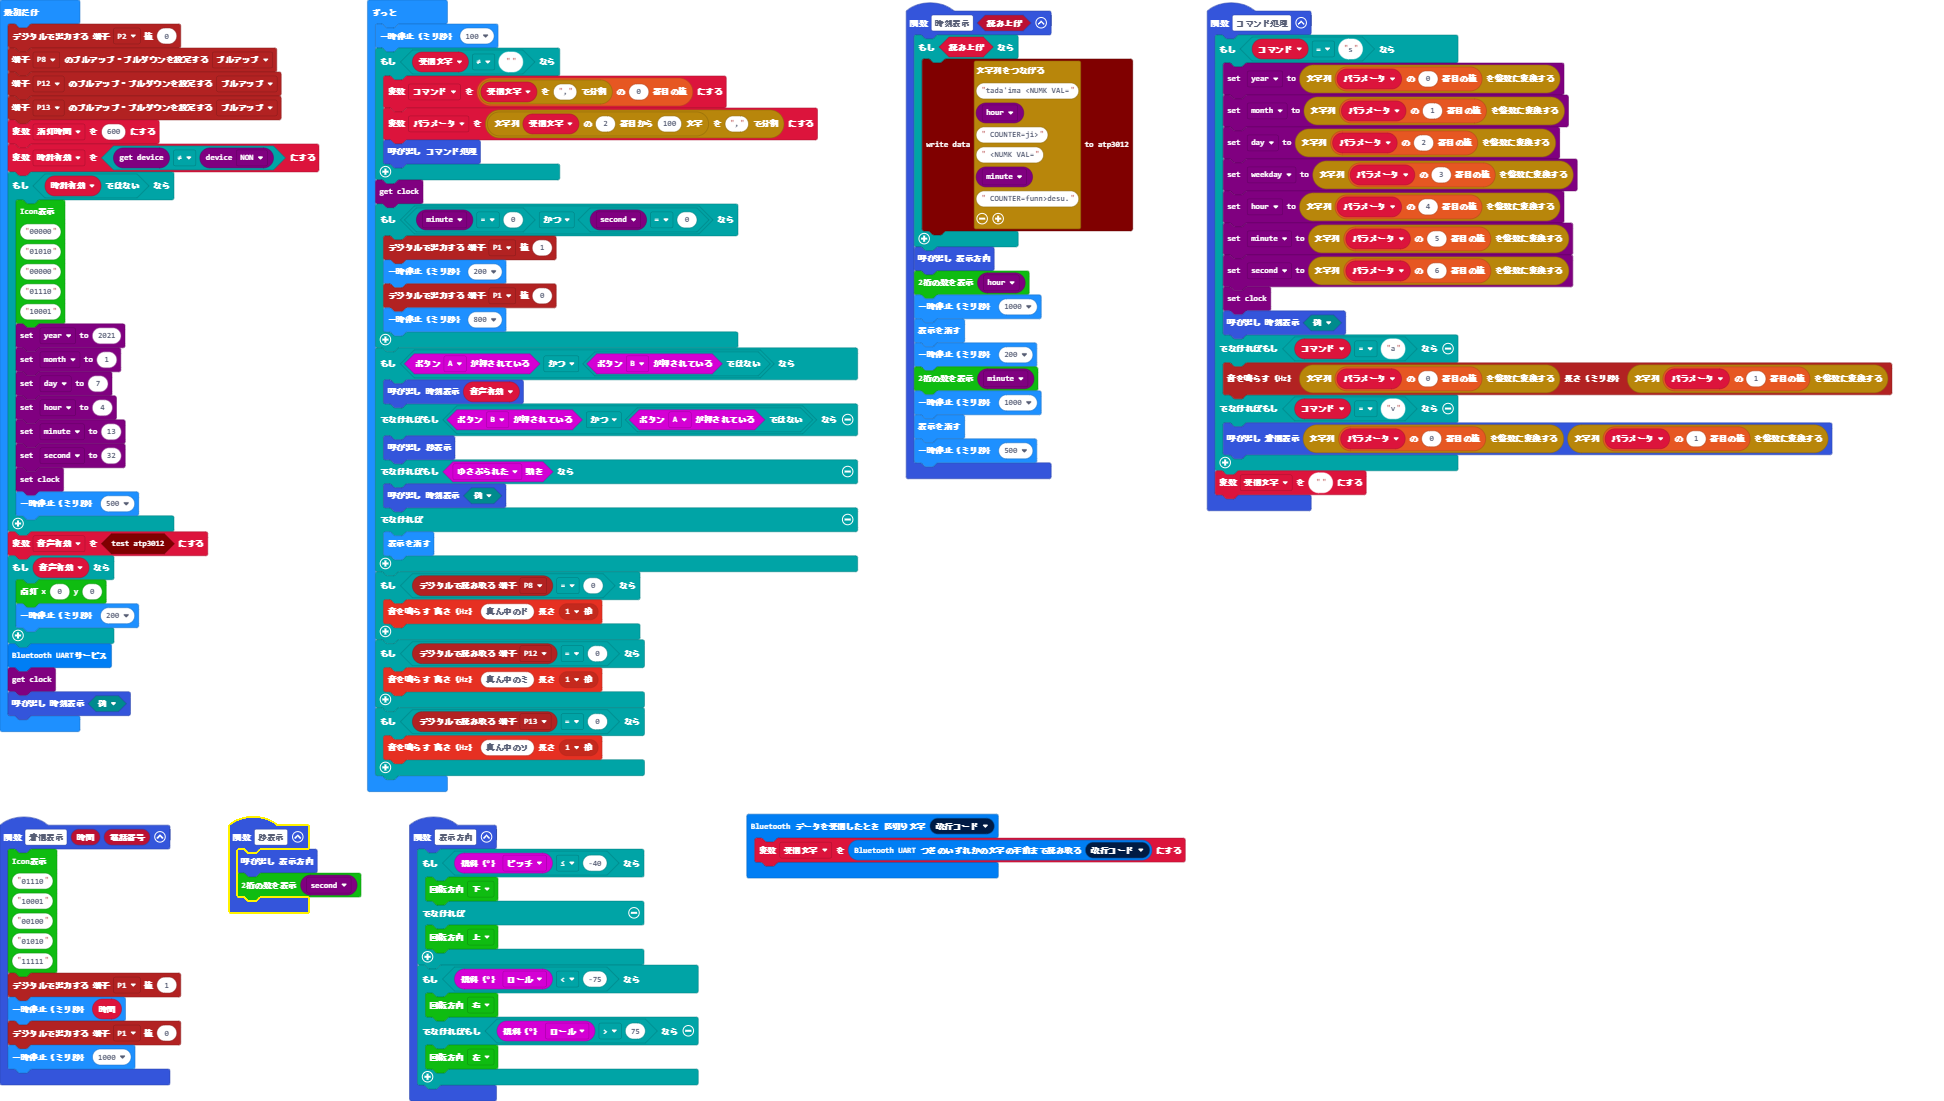
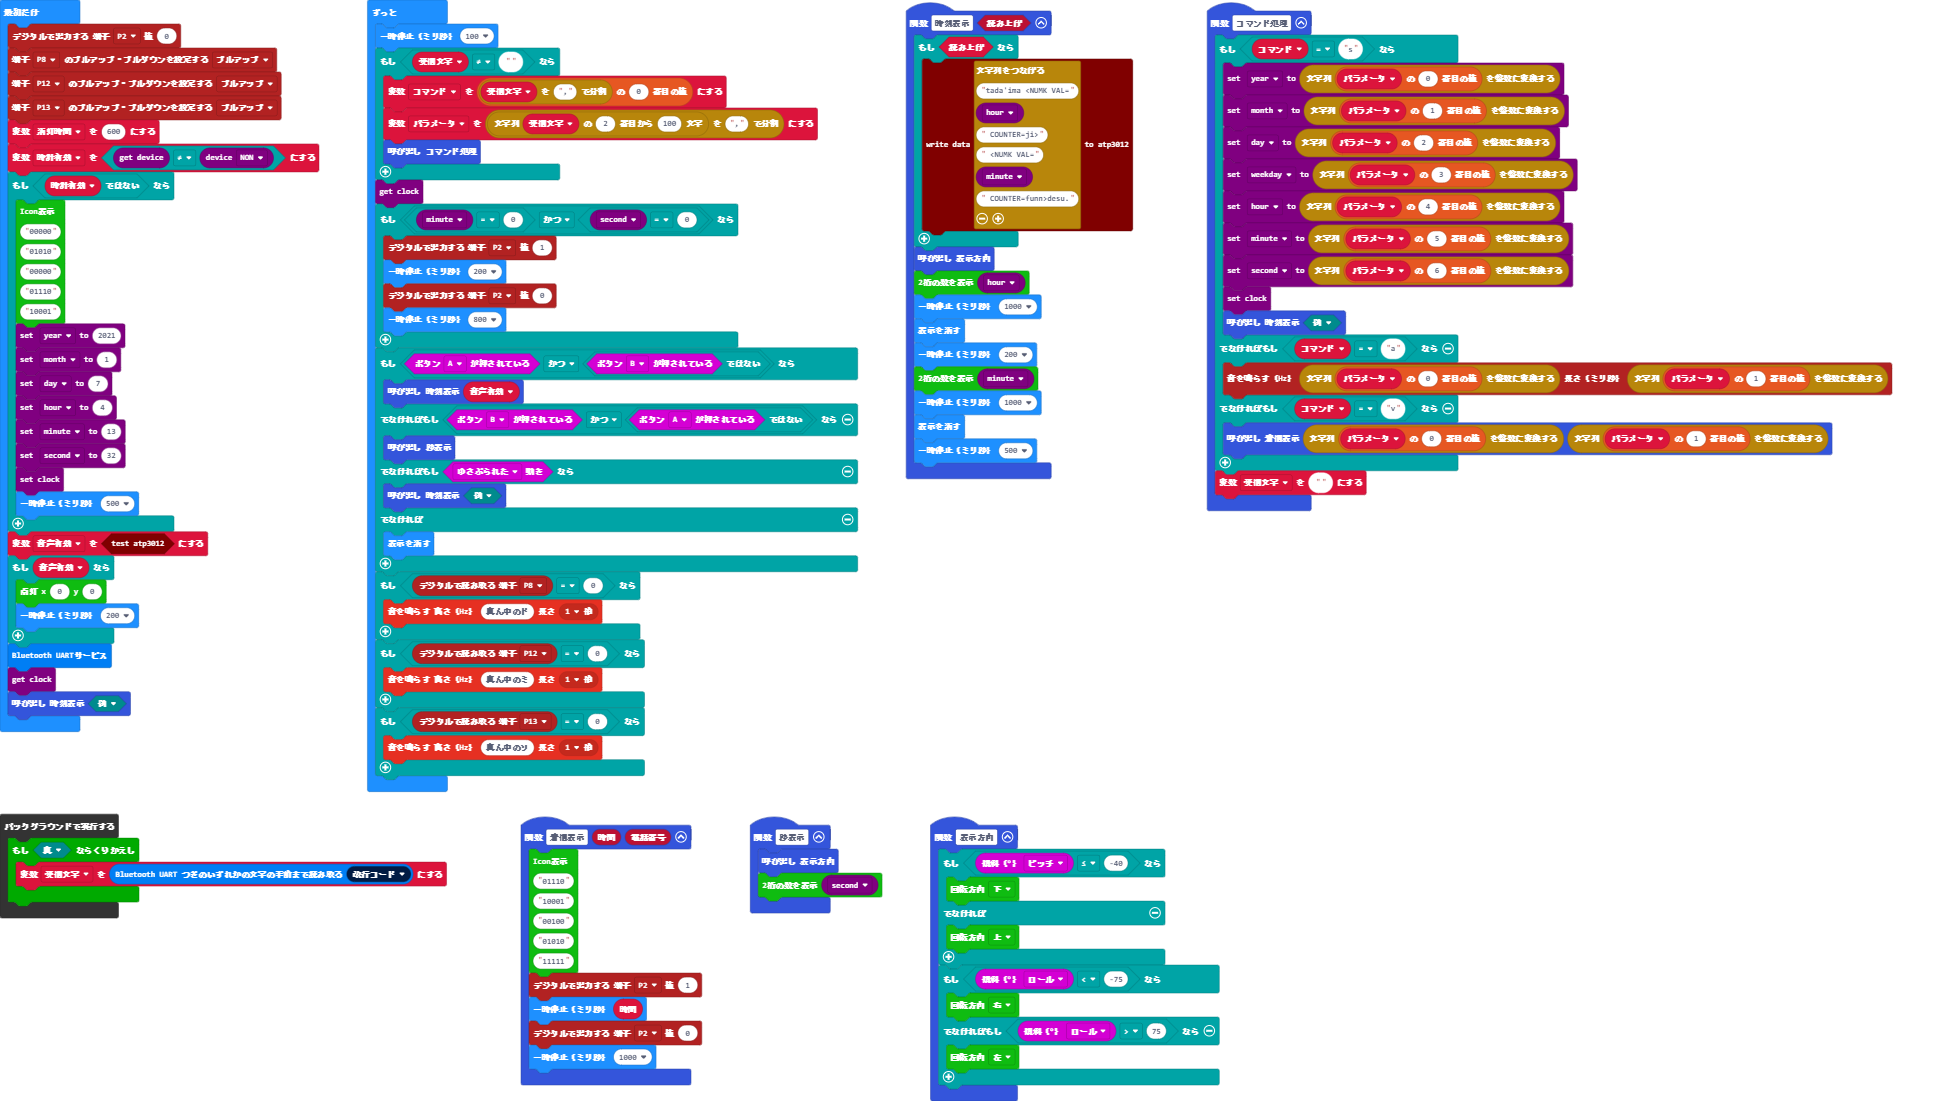
更新 main.blocks, main.ts

Changed region(s): [[0.0, 0.7411, 0.6481, 1.0]]

diff --git a/main.ts b/main.ts
@@ -6,14 +6,11 @@ function 着信表示 (時間: number, 電話番号: number) {
     "01010",
     "11111"
     )
-    pins.digitalWritePin(DigitalPin.P1, 1)
+    pins.digitalWritePin(DigitalPin.P2, 1)
     basic.pause(時間)
-    pins.digitalWritePin(DigitalPin.P1, 0)
+    pins.digitalWritePin(DigitalPin.P2, 0)
     basic.pause(1000)
 }
-bluetooth.onUartDataReceived(serial.delimiters(Delimiters.NewLine), function () {
-    受信文字 = bluetooth.uartReadUntil(serial.delimiters(Delimiters.NewLine))
-})
 function コマンド処理 () {
     if (コマンド == "s") {
         rtc.setClockData(clockData.year, parseInt(パラメータ[0]))
@@ -62,9 +59,9 @@ function 時刻表示 (読み上げ: boolean) {
     basic.clearScreen()
     basic.pause(500)
 }
+let 受信文字 = ""
 let パラメータ: string[] = []
 let コマンド = ""
-let 受信文字 = ""
 pins.digitalWritePin(DigitalPin.P2, 0)
 pins.setPull(DigitalPin.P8, PinPullMode.PullUp)
 pins.setPull(DigitalPin.P12, PinPullMode.PullUp)
@@ -105,9 +102,9 @@ basic.forever(function () {
     }
     rtc.getClock()
     if (rtc.getClockData(clockData.minute) == 0 && rtc.getClockData(clockData.second) == 0) {
-        pins.digitalWritePin(DigitalPin.P1, 1)
+        pins.digitalWritePin(DigitalPin.P2, 1)
         basic.pause(200)
-        pins.digitalWritePin(DigitalPin.P1, 0)
+        pins.digitalWritePin(DigitalPin.P2, 0)
         basic.pause(800)
     }
     if (input.buttonIsPressed(Button.A) && !(input.buttonIsPressed(Button.B))) {
@@ -127,5 +124,10 @@ basic.forever(function () {
     }
     if (pins.digitalReadPin(DigitalPin.P13) == 0) {
         music.playTone(392, music.beat(BeatFraction.Whole))
+    }
+})
+control.inBackground(function () {
+    while (true) {
+        受信文字 = bluetooth.uartReadUntil(serial.delimiters(Delimiters.NewLine))
     }
 })
